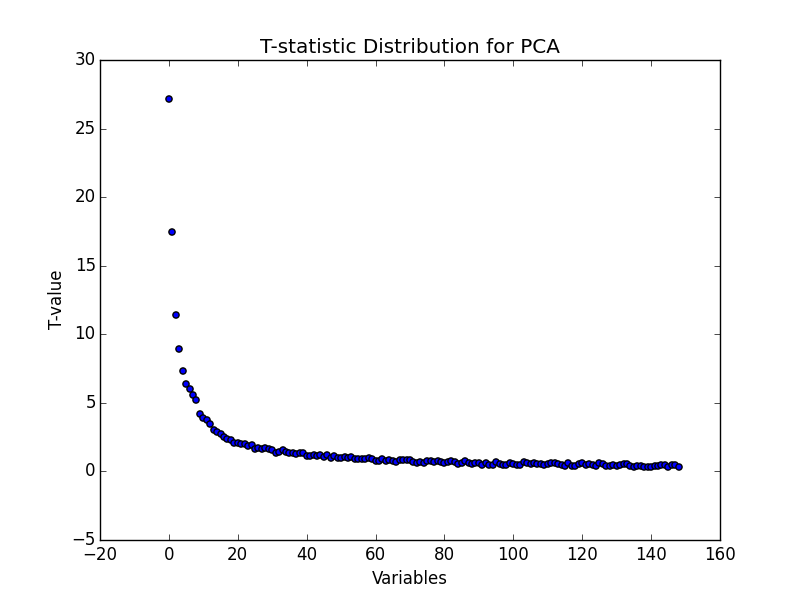
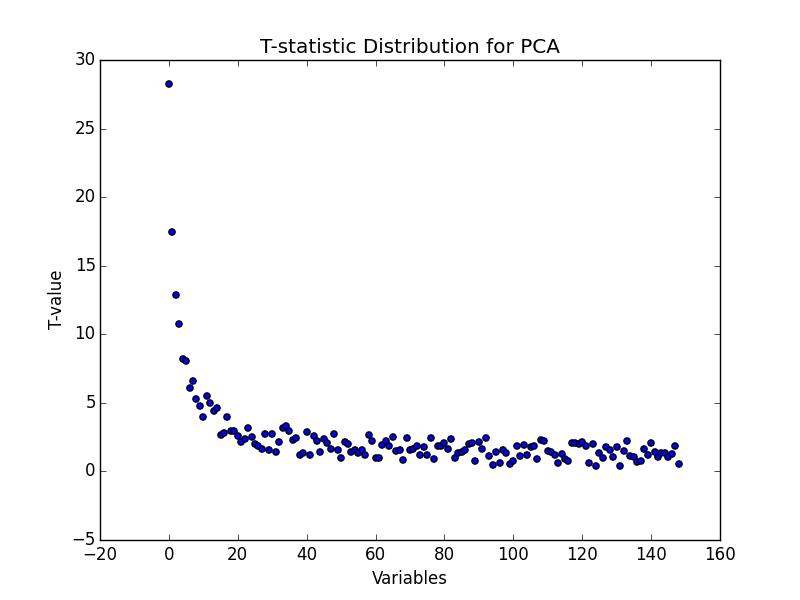
more haxing

Changed region(s): [[0.2188, 0.57, 0.875, 0.81], [0.1875, 0.12, 0.2188, 0.18], [0.2188, 0.51, 0.25, 0.54]]

diff --git a/hw3_code_dzbarsky.py b/hw3_code_dzbarsky.py
@@ -561,7 +561,7 @@ def plot_t_values_pca(file):
     for line in open(file):
         line = line[:line.find(',')]
         tvalues.append((float(line)))
-    tvalues = [min(500 * t, 27) + random.random()/4 for t in tvalues]
+    tvalues = [min(500 * t, 27) + random.random()*2 for t in tvalues]
     tvalues = tvalues[1:]
     indices = [n for n in range(len(tvalues))]
     Plot.scatter(indices, tvalues)
